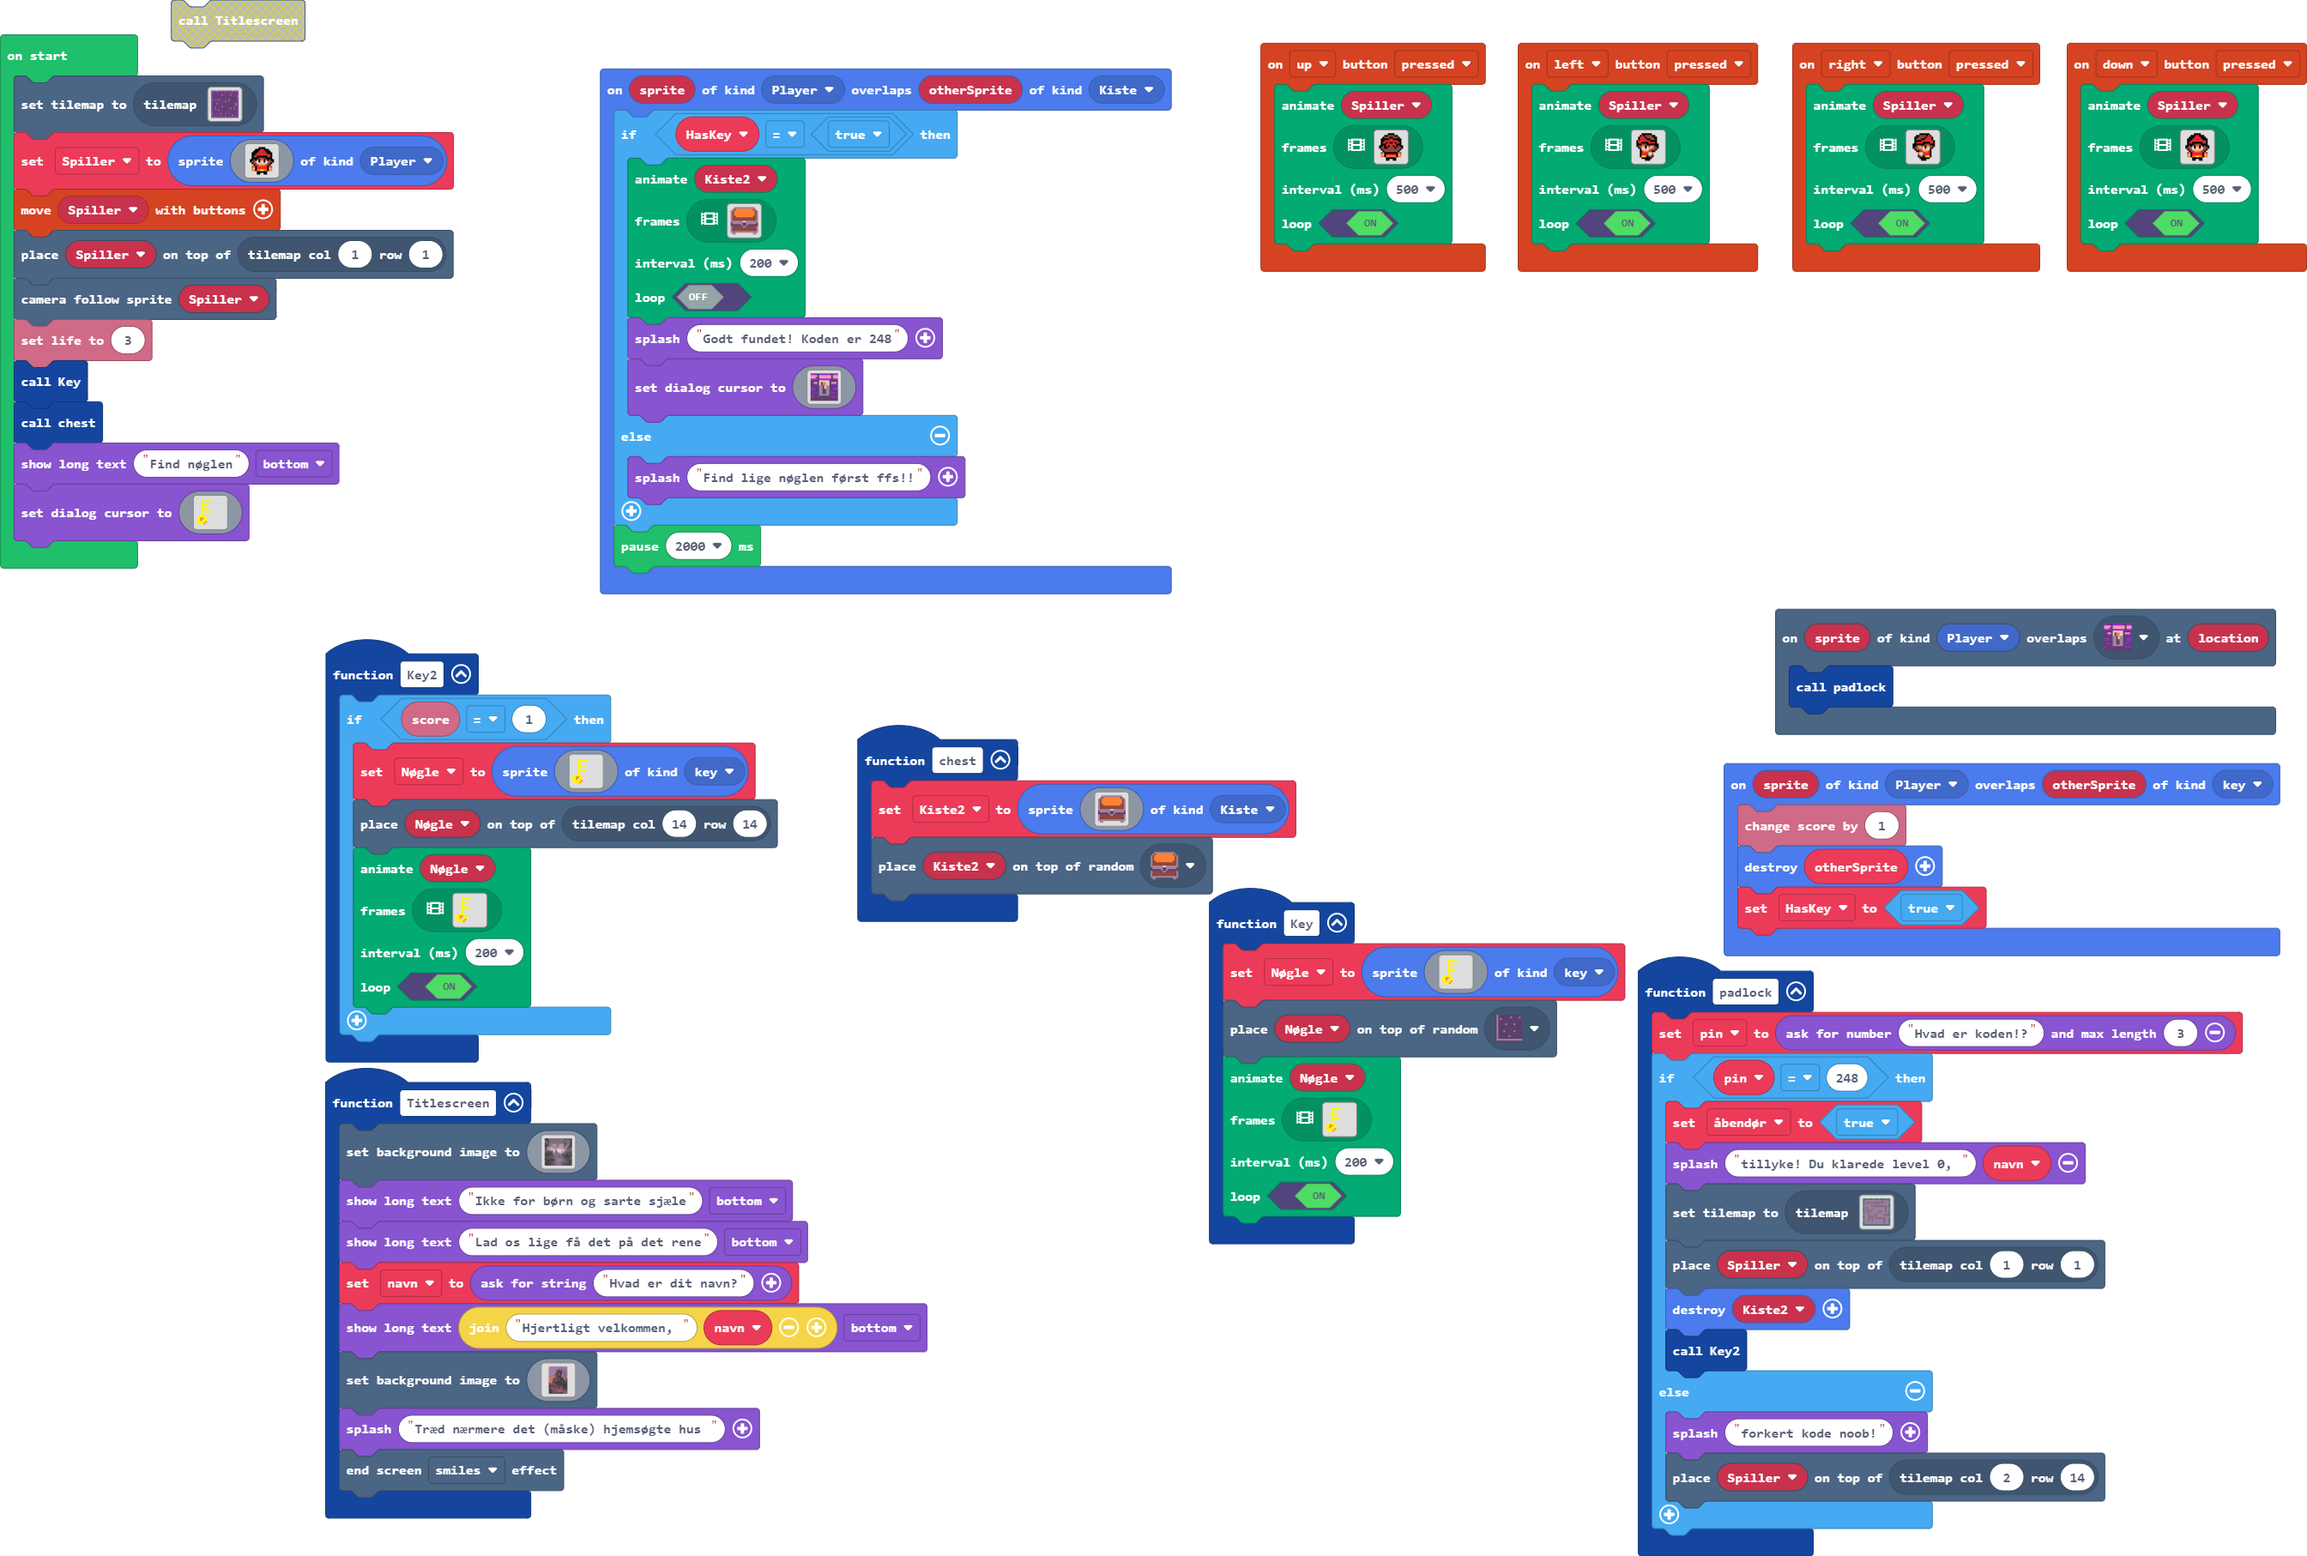
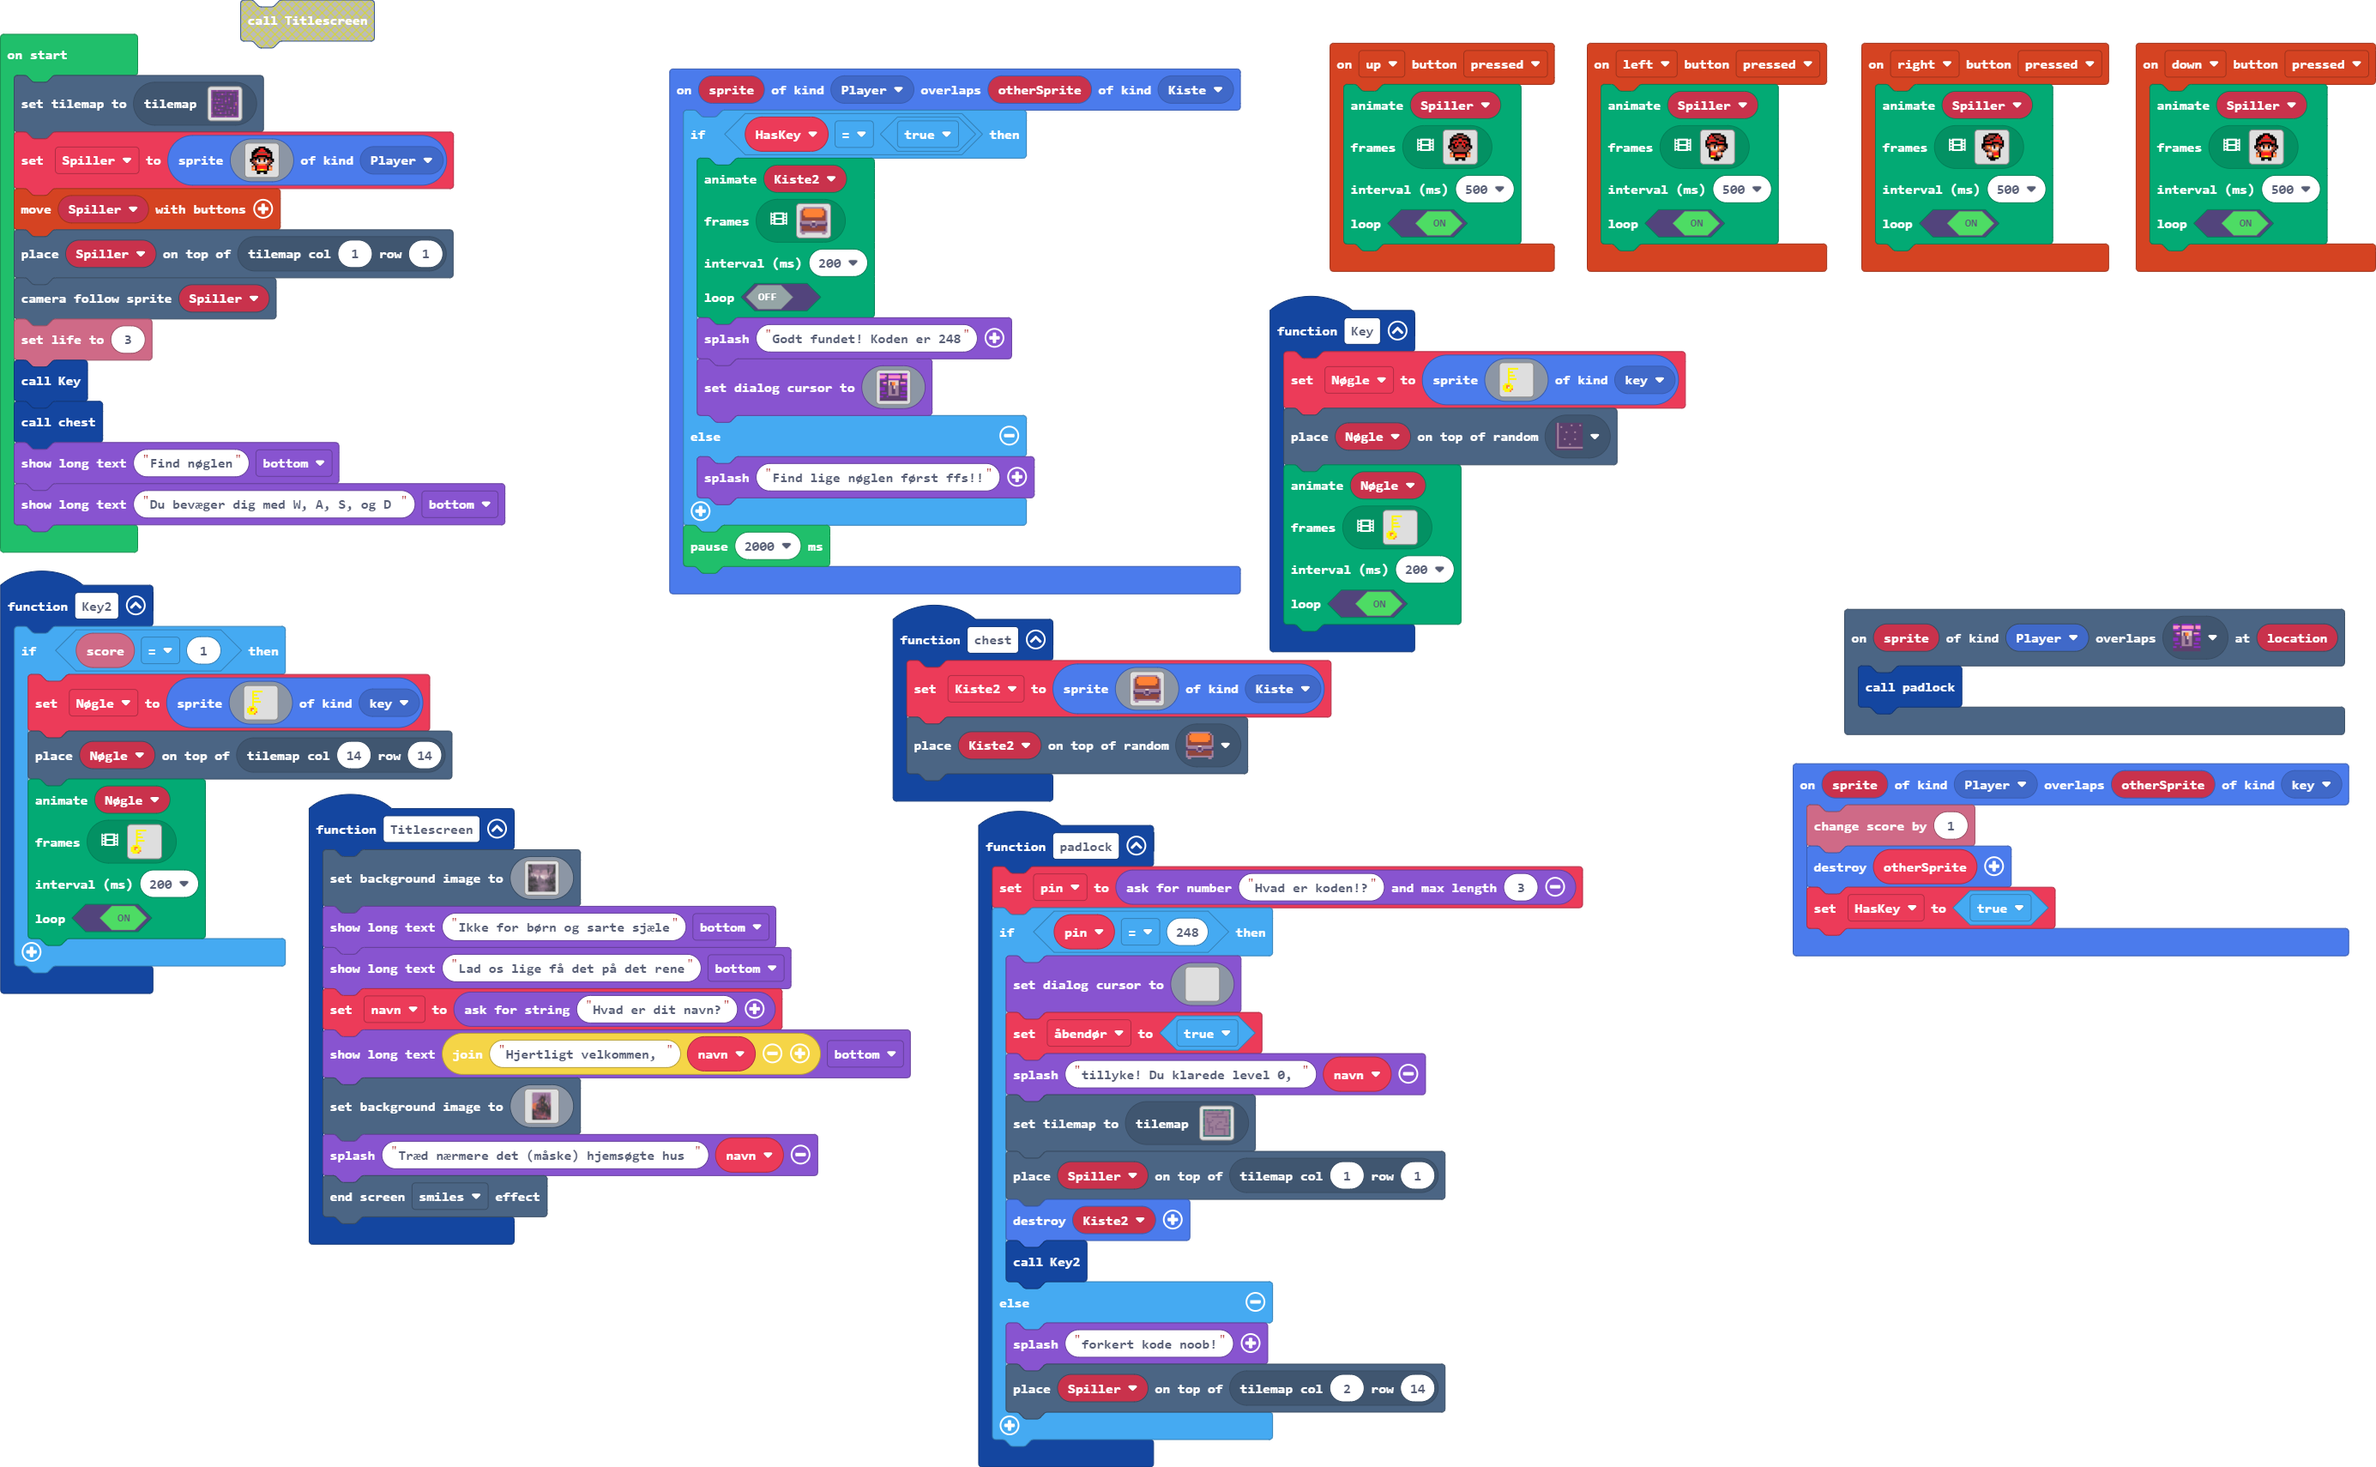
Update main.blocks, main.ts, tilemap.g.jres, tilemap.g.ts, images.g.jres, images.g.ts

diff --git a/tilemap.g.ts b/tilemap.g.ts
@@ -150,6 +150,44 @@ namespace myTiles {
 . . . . . . . . . . . . . . . . 
 . . . . . . . . . . . . . . . . 
 `, [myTiles.transparency16], TileScale.Sixteen);
+            case "level8":
+            case "level8":return tiles.createTilemap(hex`1000100000000000000000000000000000000000000000000000000000000000000000000000000000000000000000000000000000000000000000000000000000000000000000000000000000000000000000000000000000000000000000000000000000000000000000000000000000000000000000000000000000000000000000000000000000000000000000000000000000000000000000000000000000000000000000000000000000000000000000000000000000000000000000000000000000000000000000000000000000000000000000000000000000000000000000000000000000000000000000000000000000000000000000000000000000000000`, img`
+. . . . . . . . . . . . . . . . 
+. . . . . . . . . . . . . . . . 
+. . . . . . . . . . . . . . . . 
+. . . . . . . . . . . . . . . . 
+. . . . . . . . . . . . . . . . 
+. . . . . . . . . . . . . . . . 
+. . . . . . . . . . . . . . . . 
+. . . . . . . . . . . . . . . . 
+. . . . . . . . . . . . . . . . 
+. . . . . . . . . . . . . . . . 
+. . . . . . . . . . . . . . . . 
+. . . . . . . . . . . . . . . . 
+. . . . . . . . . . . . . . . . 
+. . . . . . . . . . . . . . . . 
+. . . . . . . . . . . . . . . . 
+. . . . . . . . . . . . . . . . 
+`, [myTiles.transparency16], TileScale.Sixteen);
+            case "level9":
+            case "level9":return tiles.createTilemap(hex`1000100000000000000000000000000000000000000000000000000000000000000000000000000000000000000000000000000000000000000000000000000000000000000000000000000000000000000000000000000000000000000000000000000000000000000000000000000000000000000000000000000000000000000000000000000000000000000000000000000000000000000000000000000000000000000000000000000000000000000000000000000000000000000000000000000000000000000000000000000000000000000000000000000000000000000000000000000000000000000000000000000000000000000000000000000000000000`, img`
+. . . . . . . . . . . . . . . . 
+. . . . . . . . . . . . . . . . 
+. . . . . . . . . . . . . . . . 
+. . . . . . . . . . . . . . . . 
+. . . . . . . . . . . . . . . . 
+. . . . . . . . . . . . . . . . 
+. . . . . . . . . . . . . . . . 
+. . . . . . . . . . . . . . . . 
+. . . . . . . . . . . . . . . . 
+. . . . . . . . . . . . . . . . 
+. . . . . . . . . . . . . . . . 
+. . . . . . . . . . . . . . . . 
+. . . . . . . . . . . . . . . . 
+. . . . . . . . . . . . . . . . 
+. . . . . . . . . . . . . . . . 
+. . . . . . . . . . . . . . . . 
+`, [myTiles.transparency16], TileScale.Sixteen);
         }
         return null;
     })

diff --git a/images.g.ts b/images.g.ts
@@ -3,25 +3,6 @@ namespace myImages {
 
     helpers._registerFactory("image", function(name: string) {
         switch(helpers.stringTrim(name)) {
-            case "h-v*[Q3kfO+/J6[hpfT$":
-            case "nøgle":return img`
-. . . . . . . . . . . . . . . . 
-. . . . . . . . . . . . . . . . 
-. . . . . . . . . . . . . . . . 
-. . . . . . . . . . . . . . . . 
-. . . . . . . . . . . . . . . . 
-. . . . . . . . . . . . . . . . 
-. . . . . . . . . . . . . . . . 
-. . . . . . . . . . . . . . . . 
-. . . . . . . . . . . . . . . . 
-. . . . . . . . . . . . . . . . 
-. . . . . . . . . . . . . . . . 
-. . . . . . . . . . . . . . . . 
-. . . . . . . . . . . . . . . . 
-. . . . . . . . . . . . . . . . 
-. . . . . . . . . . . . . . . . 
-. . . . . . . . . . . . . . . . 
-`;
             case "image1":
             case "nøgle0":return img`
 . . . . . . f f f f . . . . . . 
@@ -503,6 +484,25 @@ fffffffffffffffffffffffffffffffffcfffcffffffffffffffffffffffffffffffffffffffffff
 fffffffffffffffffffffffffffffffffcfffffffffffffffffffffffffffffffffffffffffffffffffffffffffffffffffffffffffffffffffffffffffcffffcccccccccecccccceeccfffcccfcfce
 ffffffffffffffffffffffffffffffffffffffccfffcfffffffcffffffffffffffffffffffffffffffffffffffffffffffffffffffffffffffffffffffffffffffffcfecfeffeffcceccccffffeffef
 fffffffffffffffffffffffffffffffffffffffffffffffffffffffffffffffffffffffffffffffffffffffffffffffffffffffffffffffffffffffffcfffffcfffcffceccccfefceeeecfcccfcfccc
+`;
+            case "h-v*[Q3kfO+/J6[hpfT$":
+            case "nøgle":return img`
+. . . . . . . . . . . . . . . . 
+. . . . . . . . . . . . . . . . 
+. . . . . . . . . . . . . . . . 
+. . . . . . . . . . . . . . . . 
+. . . . . . . . . . . . . . . . 
+. . . . . . . . . . . . . . . . 
+. . . . . . . . . . . . . . . . 
+. . . . . . . . . . . . . . . . 
+. . . . . . . . . . . . . . . . 
+. . . . . . . . . . . . . . . . 
+. . . . . . . . . . . . . . . . 
+. . . . . . . . . . . . . . . . 
+. . . . . . . . . . . . . . . . 
+. . . . . . . . . . . . . . . . 
+. . . . . . . . . . . . . . . . 
+. . . . . . . . . . . . . . . . 
 `;
         }
         return null;

diff --git a/main.ts b/main.ts
@@ -17,7 +17,7 @@ function Titlescreen () {
     navn = game.askForString("Hvad er dit navn?")
     game.showLongText("Hjertligt velkommen, " + navn, DialogLayout.Bottom)
     scene.setBackgroundImage(assets.image`Haunted house`)
-    game.splash("Træd nærmere det (måske) hjemsøgte hus ")
+    game.splash("Træd nærmere det (måske) hjemsøgte hus ", navn)
     effects.smiles.endScreenEffect()
 }
 function Key () {
@@ -80,6 +80,7 @@ sprites.onOverlap(SpriteKind.Player, SpriteKind.Kiste, function (sprite, otherSp
 function padlock () {
     pin = game.askForNumber("Hvad er koden!?", 3)
     if (pin == 248) {
+        game.setDialogCursor(assets.image`nøgle`)
         åbendør = true
         game.splash("tillyke! Du klarede level 0, ", navn)
         tiles.setCurrentTilemap(tilemap`level 1`)
@@ -140,4 +141,4 @@ info.setLife(3)
 Key()
 chest()
 game.showLongText("Find nøglen", DialogLayout.Bottom)
-game.setDialogCursor(assets.image`nøglee`)
+game.showLongText("Du bevæger dig med W, A, S, og D ", DialogLayout.Bottom)
